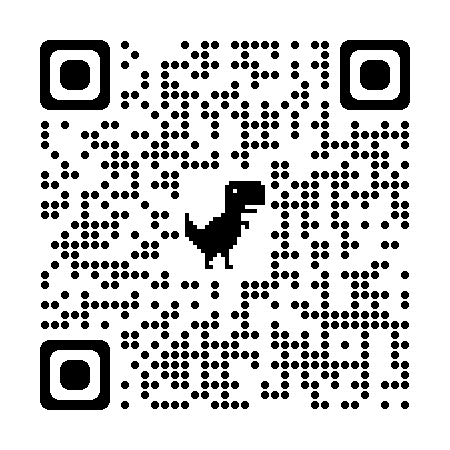
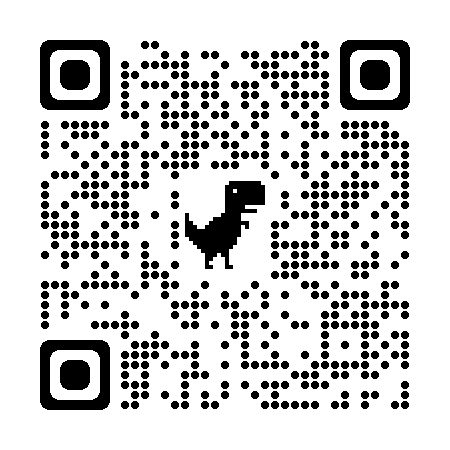
DONE

diff --git a/index.html b/index.html
@@ -4,7 +4,7 @@
     <meta charset="UTF-8">
     <meta http-equiv="X-UA-Compatible" content="IE=edge">
     <meta name="viewport" content="width=device-width, initial-scale=1.0">
-    <title>Firstname L. | Showcase Kiosk</title>
+    <title>Pratham S. | Showcase Kiosk</title>
 
     <style>
 
@@ -38,7 +38,7 @@
         }
 
         main {
-            background-image: url(img/hero.jpg) ;
+            background-image: url(img/hero.png) ;
             background-size: cover;
             height: 100vh;
             width: 100vw;
@@ -58,7 +58,7 @@
             <article>
                 <img src="img/qr.png" alt="QR Code">
                 <span>Scan to Visit</span>
-                <h1>Firstname L.'s Website</h1>
+                <h1>Pratham S.'s Website</h1>
             </article>
         </main>
     </section>
